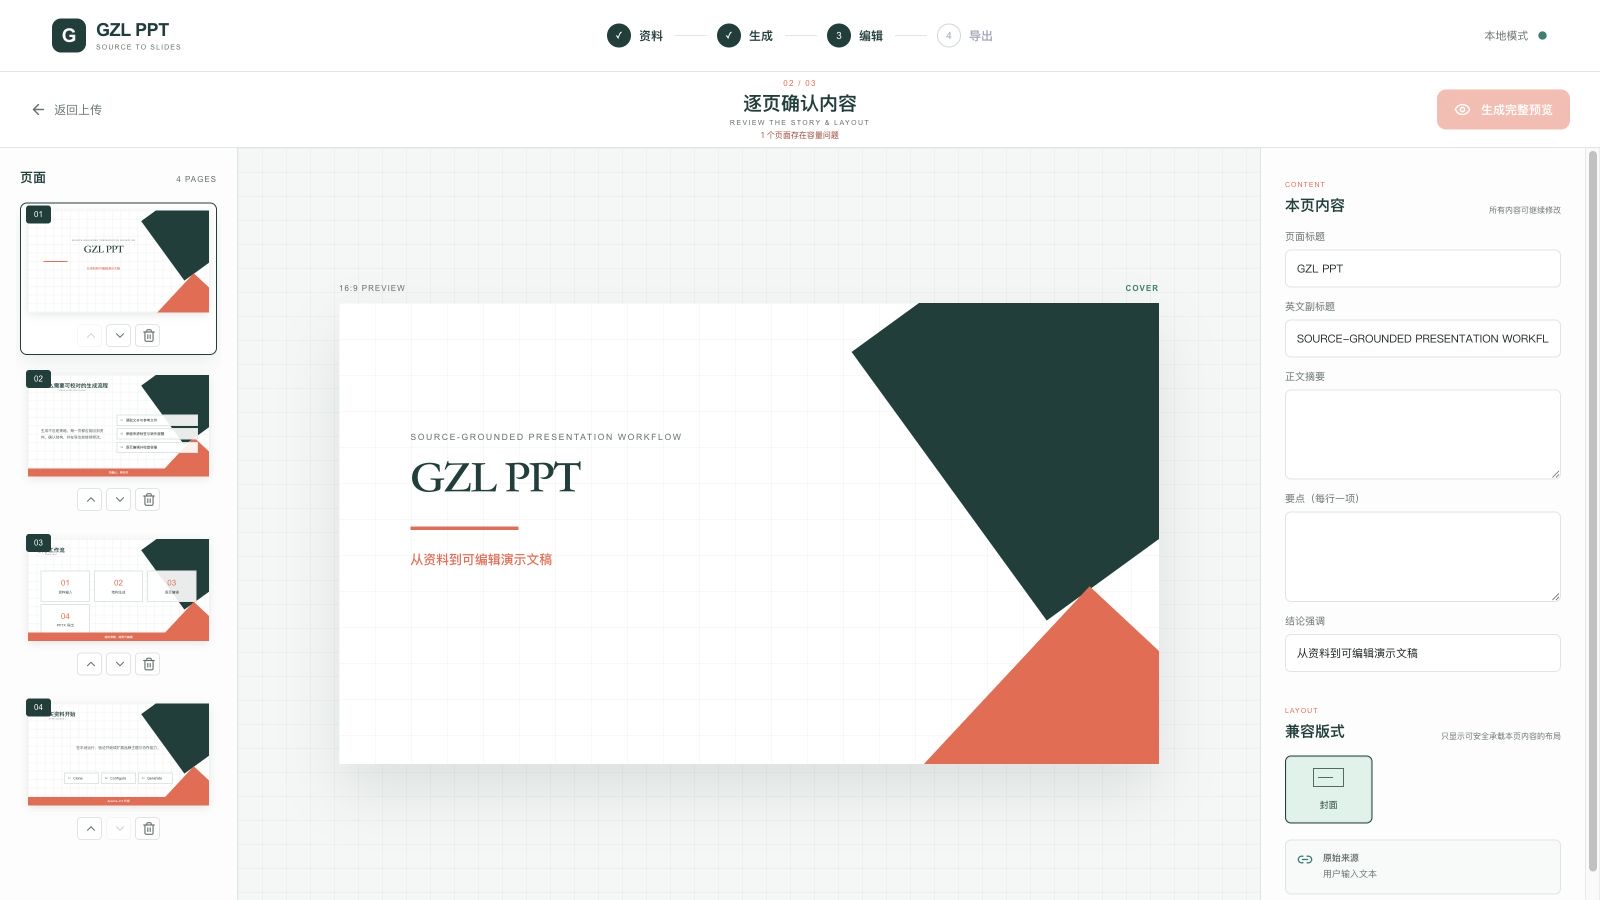
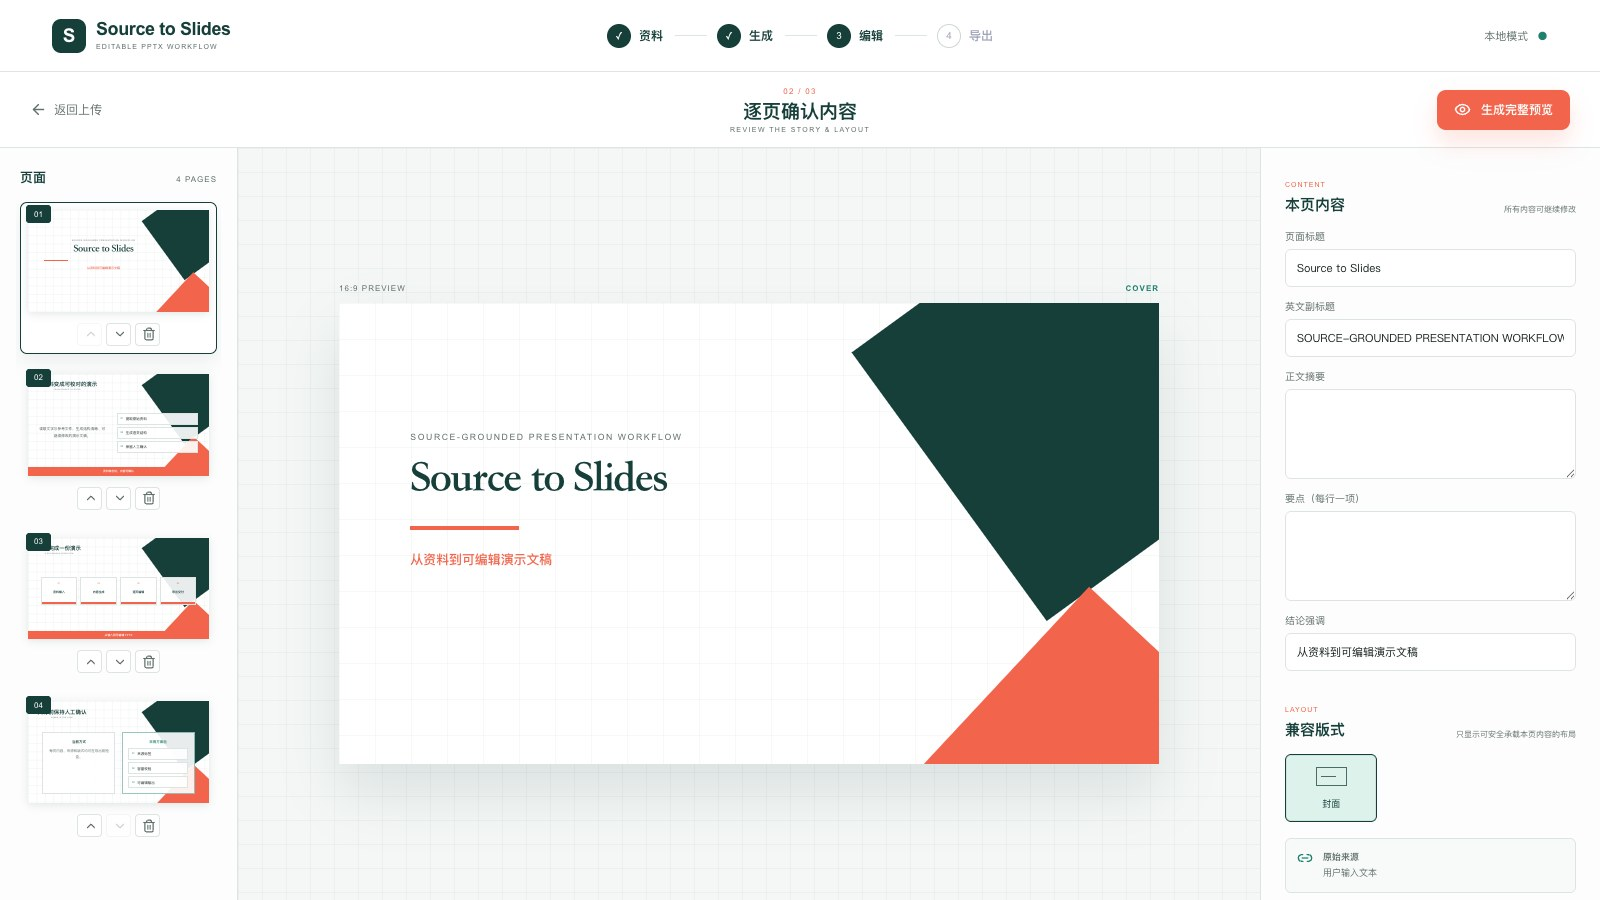
rename project to Source to Slides

diff --git a/src/services/pptxExporter.ts b/src/services/pptxExporter.ts
@@ -59,7 +59,7 @@ export async function buildPresentation(draft: DeckDraft): Promise<Blob> {
   const { default: PptxGenJS } = await import('pptxgenjs')
   const pptx = new PptxGenJS()
   pptx.layout = 'LAYOUT_WIDE'
-  pptx.author = 'GZL PPT'
+  pptx.author = 'Source to Slides'
   pptx.subject = 'Source-backed editable presentation'
   pptx.title = draft.title
   pptx.company = ''
@@ -73,7 +73,7 @@ export async function downloadPresentation(draft: DeckDraft) {
   const url = URL.createObjectURL(blob)
   const anchor = document.createElement('a')
   anchor.href = url
-  anchor.download = `${draft.title || 'GZL-PPT'}.pptx`
+  anchor.download = `${draft.title || 'Source-to-Slides'}.pptx`
   anchor.click()
   URL.revokeObjectURL(url)
 }

diff --git a/src/app/App.tsx b/src/app/App.tsx
@@ -9,7 +9,7 @@ import { apiParser } from '../services/apiParser'
 import { downloadPresentation } from '../services/pptxExporter'
 
 function Brand() {
-  return <a className="brand" href="/" aria-label="GZL PPT 首页"><span className="brand-mark" aria-hidden="true">G</span><span><b>GZL PPT</b><small>SOURCE TO SLIDES</small></span></a>
+  return <a className="brand" href="/" aria-label="Source to Slides 首页"><span className="brand-mark" aria-hidden="true">S</span><span><b>Source to Slides</b><small>EDITABLE PPTX WORKFLOW</small></span></a>
 }
 
 function Stepper({ step }: { step: WizardStep }) {

diff --git a/index.html b/index.html
@@ -4,7 +4,7 @@
     <meta charset="UTF-8" />
     <meta name="viewport" content="width=device-width, initial-scale=1.0" />
     <meta name="theme-color" content="#ffffff" />
-    <title>GZL PPT · 从资料到可编辑演示文稿</title>
+    <title>Source to Slides · 从资料到可编辑演示文稿</title>
   </head>
   <body>
     <div id="root"></div>

diff --git a/README.md b/README.md
@@ -1,4 +1,4 @@
-<h1 align="center">GZL PPT</h1>
+<h1 align="center">Source to Slides</h1>
 
 <p align="center">
   <strong>把文本与参考文件，变成可校对、可追溯、可继续编辑的 PowerPoint。</strong>
@@ -14,7 +14,7 @@
   <img src="https://img.shields.io/badge/TypeScript-5-3178C6?logo=typescript&logoColor=white" alt="TypeScript 5">
   <img src="https://img.shields.io/badge/OpenAI-Responses%20API-173F3A" alt="OpenAI Responses API">
   <img src="https://img.shields.io/badge/export-editable%20PPTX-F2644B" alt="Editable PPTX">
-  <a href="https://github.com/702129770-lgtm/gzlppt/actions/workflows/ci.yml"><img src="https://github.com/702129770-lgtm/gzlppt/actions/workflows/ci.yml/badge.svg" alt="CI"></a>
+  <a href="https://github.com/702129770-lgtm/source-to-slides/actions/workflows/ci.yml"><img src="https://github.com/702129770-lgtm/source-to-slides/actions/workflows/ci.yml/badge.svg" alt="CI"></a>
   <a href="LICENSE"><img src="https://img.shields.io/badge/license-Apache--2.0-173F3A" alt="Apache-2.0 License"></a>
 </p>
 
@@ -29,12 +29,12 @@
 </p>
 
 <p align="center">
-  <img src="docs/assets/readme-hero.svg" width="100%" alt="GZL PPT — 从资料到可编辑演示文稿">
+  <img src="docs/assets/readme-hero.svg" width="100%" alt="Source to Slides — 从资料到可编辑演示文稿">
 </p>
 
 ## 为什么做这个项目
 
-常见的 AI PPT 流程要么只生成一段大纲，要么直接交付无法核对来源、难以继续修改的结果。GZL PPT 把生成过程拆成一条可检查的工作流：
+常见的 AI PPT 流程要么只生成一段大纲，要么直接交付无法核对来源、难以继续修改的结果。Source to Slides 把生成过程拆成一条可检查的工作流：
 
 1. **先读资料**：提取文字与可用图片，而不是从空白提示词开始猜。
 2. **再生成结构**：使用严格 JSON Schema 输出指定页数的逐页内容。
@@ -49,8 +49,8 @@
 
 <table>
   <tr>
-    <td width="50%"><img src="docs/assets/product-upload.jpg" alt="GZL PPT 资料输入页面"></td>
-    <td width="50%"><img src="docs/assets/product-editor.jpg" alt="GZL PPT 三栏逐页编辑工作区"></td>
+    <td width="50%"><img src="docs/assets/product-upload.jpg" alt="Source to Slides 资料输入页面"></td>
+    <td width="50%"><img src="docs/assets/product-editor.jpg" alt="Source to Slides 三栏逐页编辑工作区"></td>
   </tr>
   <tr>
     <td><strong>多格式资料输入</strong><br>粘贴主要文字，设置 1–30 页目标，并补充 PPTX、PDF、DOCX 或图片。</td>
@@ -187,7 +187,7 @@ pnpm audit:dependencies
 ## 项目结构
 
 ```text
-gzlppt/
+source-to-slides/
 ├── server/                 # API、资料提取、模型请求与 Deck 生成
 ├── src/
 │   ├── app/                # 应用入口与步骤状态
@@ -233,7 +233,7 @@ gzlppt/
 
 欢迎提交问题、功能建议和改进。开始前请阅读 [贡献指南](CONTRIBUTING.md)；安全问题请不要公开披露，按照 [安全政策](SECURITY.md) 私密报告。
 
-- [提交问题](https://github.com/702129770-lgtm/gzlppt/issues/new/choose)
+- [提交问题](https://github.com/702129770-lgtm/source-to-slides/issues/new/choose)
 - [贡献指南](CONTRIBUTING.md)
 - [行为准则](CODE_OF_CONDUCT.md)
 - [安全政策](SECURITY.md)
@@ -248,9 +248,9 @@ gzlppt/
 
 ## License
 
-GZL PPT 采用 [Apache License 2.0](LICENSE) 开源。使用、修改和分发时请遵守许可证、[NOTICE](NOTICE) 与 [第三方许可说明](THIRD_PARTY_NOTICES.md)。项目名称和视觉身份不随软件许可证授权，详见 [商标说明](TRADEMARKS.md)。
+Source to Slides 采用 [Apache License 2.0](LICENSE) 开源。使用、修改和分发时请遵守许可证、[NOTICE](NOTICE) 与 [第三方许可说明](THIRD_PARTY_NOTICES.md)。项目名称和视觉身份不随软件许可证授权，详见 [商标说明](TRADEMARKS.md)。
 
-GZL PPT 是独立项目，与 OpenAI 或 Microsoft 没有隶属或背书关系。
+Source to Slides 是独立项目，与 OpenAI 或 Microsoft 没有隶属或背书关系。
 
 ---
 

diff --git a/TRADEMARKS.md b/TRADEMARKS.md
@@ -1,7 +1,7 @@
 # Trademarks
 
-The Apache License 2.0 applies to the software and documentation in this repository. It does not grant permission to use the GZL PPT name, wordmark or visual identity to imply endorsement, sponsorship or an official derivative.
+The Apache License 2.0 applies to the software and documentation in this repository. It does not grant permission to use the Source to Slides name, wordmark or visual identity to imply endorsement, sponsorship or an official derivative.
 
 You may use the project name when accurately referring to this software, compatible integrations or unmodified distributions. Forks and modified products should use a distinct name and identity unless the maintainer gives separate permission.
 
-OpenAI, PowerPoint and Microsoft are trademarks of their respective owners. GZL PPT is an independent project and is not affiliated with or endorsed by OpenAI or Microsoft.
+OpenAI, PowerPoint and Microsoft are trademarks of their respective owners. Source to Slides is an independent project and is not affiliated with or endorsed by OpenAI or Microsoft.

diff --git a/SECURITY.md b/SECURITY.md
@@ -2,13 +2,13 @@
 
 ## Supported version
 
-GZL PPT 目前处于本地 MVP 阶段，只维护 `main` 分支的最新版本。仓库不承诺旧提交或分支仍能获得安全更新。
+Source to Slides 目前处于本地 MVP 阶段，只维护 `main` 分支的最新版本。仓库不承诺旧提交或分支仍能获得安全更新。
 
 ## Reporting a vulnerability
 
 请不要通过公开 Issue 披露漏洞、密钥或可利用细节。使用仓库 **Security** 页面中的 **Report a vulnerability** 私密提交报告：
 
-https://github.com/702129770-lgtm/gzlppt/security/advisories/new
+https://github.com/702129770-lgtm/source-to-slides/security/advisories/new
 
 报告中请包含受影响版本、复现步骤、影响范围和建议修复方式。维护者确认问题后会在公开修复前协调披露时间。
 

diff --git a/THIRD_PARTY_NOTICES.md b/THIRD_PARTY_NOTICES.md
@@ -1,6 +1,6 @@
 # Third-party notices
 
-GZL PPT depends on open-source software listed in `package.json` and resolved in `pnpm-lock.yaml`. The repository does not commit `node_modules` or compiled distribution files.
+Source to Slides depends on open-source software listed in `package.json` and resolved in `pnpm-lock.yaml`. The repository does not commit `node_modules` or compiled distribution files.
 
 The direct runtime dependencies use permissive licenses, including MIT, Apache-2.0, ISC, BSD and Zlib terms. Notable combined or embedded notices include:
 

diff --git a/docs/architecture.md b/docs/architecture.md
@@ -1,6 +1,6 @@
 # Architecture
 
-GZL PPT 是一个面向本地单用户场景的 React + Express 应用。浏览器负责资料选择、逐页编辑、预览和 PPTX 下载；服务端负责文件解析与模型调用。
+Source to Slides 是一个面向本地单用户场景的 React + Express 应用。浏览器负责资料选择、逐页编辑、预览和 PPTX 下载；服务端负责文件解析与模型调用。
 
 ## Data flow
 

diff --git a/CONTRIBUTING.md b/CONTRIBUTING.md
@@ -1,6 +1,6 @@
-# Contributing to GZL PPT
+# Contributing to Source to Slides
 
-感谢你愿意改进 GZL PPT。为了让问题和合并请求更容易复现、审阅与维护，请遵循下面的流程。
+感谢你愿意改进 Source to Slides。为了让问题和合并请求更容易复现、审阅与维护，请遵循下面的流程。
 
 ## 开始之前
 

diff --git a/CODE_OF_CONDUCT.md b/CODE_OF_CONDUCT.md
@@ -1,6 +1,6 @@
 # Code of Conduct
 
-GZL PPT 社区希望所有参与者都能在安全、尊重和专业的环境中协作。
+Source to Slides 社区希望所有参与者都能在安全、尊重和专业的环境中协作。
 
 ## 我们的约定
 
